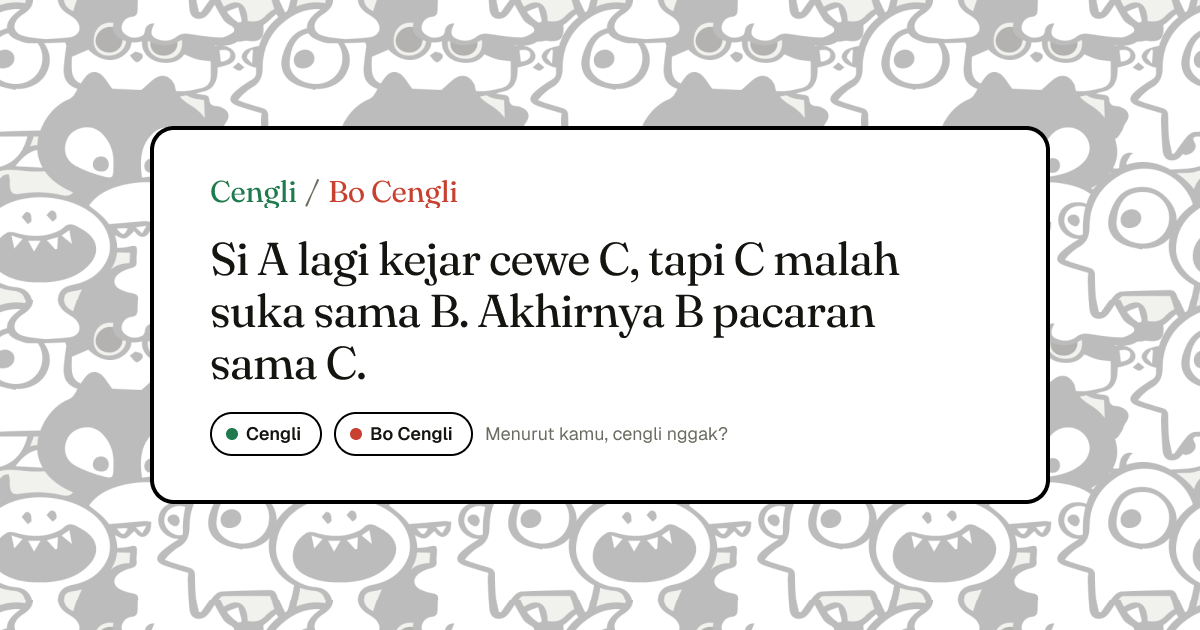
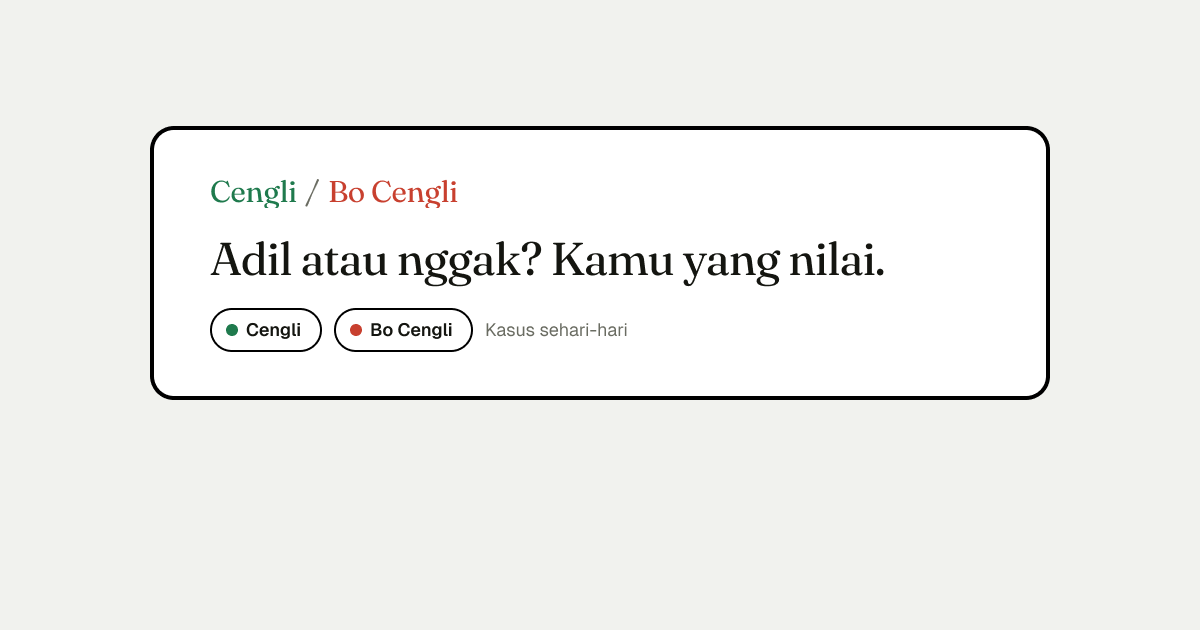
Generic share text and plain OG image
Claude-Session: https://claude.ai/code/session_01UvMSMZt6PDiAjinWrAuSRP

Changed region(s): [[0.0, 0.0, 1.0, 1.0], [0.2158, 0.181, 0.2467, 0.2111]]

diff --git a/pages/index.vue b/pages/index.vue
@@ -57,7 +57,7 @@ async function share() {
   const it = current.value
   if (!it) return
   const url = `${location.origin}/s/${it.id}`
-  const text = 'Menurut kamu, cengli nggak? Vote dulu, baru lihat hasilnya.'
+  const text = 'Cengli atau Bo Cengli? Ikut nilai.'
   try {
     if (navigator.share) { await navigator.share({ title: 'Cengli / Bo Cengli', text, url }); return }
     await navigator.clipboard.writeText(url)

diff --git a/app.vue b/app.vue
@@ -1,6 +1,6 @@
 <script setup lang="ts">
 const site = useRuntimeConfig().public.siteUrl as string
-const desc = 'Kejadian sehari-hari, kamu yang nilai. Cengli atau Bo Cengli?'
+const desc = 'Cengli atau Bo Cengli? Kasus sehari-hari, kamu yang nilai.'
 useHead({
   meta: [
     { property: 'og:type', content: 'website' },
